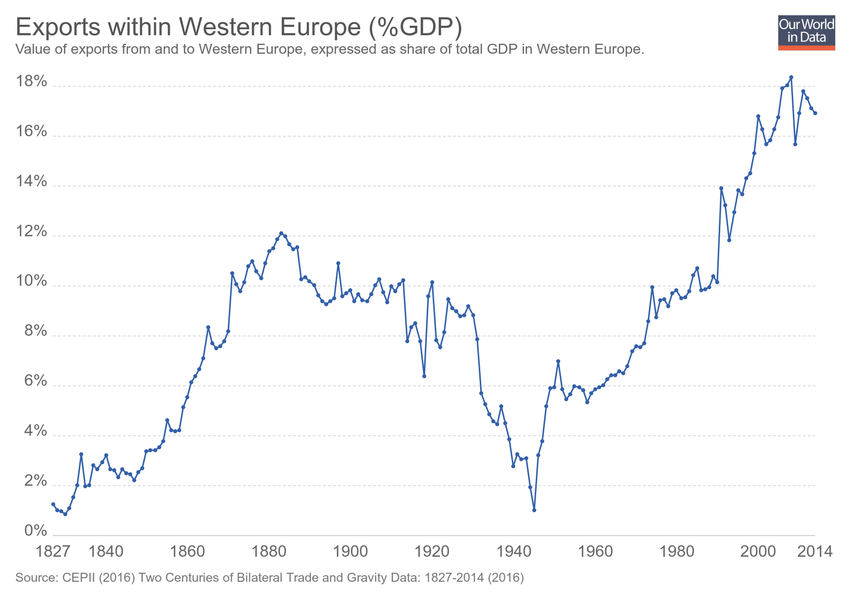
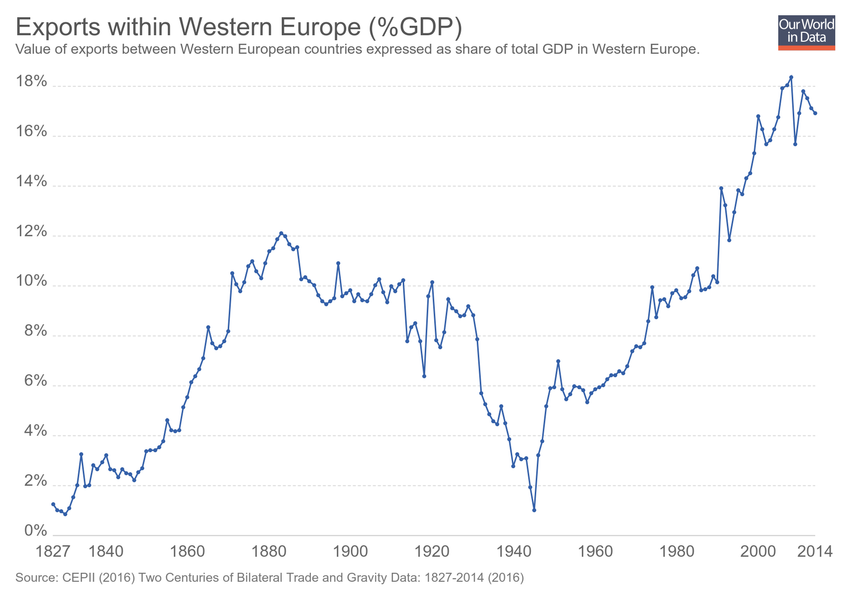
Updating chart exports-within-western-europe

Changed region(s): [[0.1529, 0.06, 0.8259, 0.09]]

diff --git a/grapher/exports-within-western-europe.html b/grapher/exports-within-western-europe.html
@@ -1,4 +1,4 @@
-<!doctype html><html><head><meta name="viewport" content="width=device-width, initial-scale=1" /><title>Exports within Western Europe (%GDP) - Our World in Data</title><meta name="description" content="Value of exports from and to Western Europe, expressed as share of total GDP in Western Europe." /><link rel="canonical" href="https://ourworldindata.org/grapher/exports-within-western-europe" /><meta property="fb:app_id" content="1149943818390250" /><meta property="og:url" content="https://ourworldindata.org/grapher/exports-within-western-europe" /><meta property="og:title" content="Exports within Western Europe (%GDP)" /><meta property="og:description" content="Value of exports from and to Western Europe, expressed as share of total GDP in Western Europe." /><meta property="og:image" content="https://ourworldindata.org/grapher/exports/exports-within-western-europe.png?v=1" /><meta property="og:image:width" content="850" /><meta property="og:image:height" content="600" /><meta property="og:site_name" content="Our World in Data" /><meta name="twitter:card" content="summary_large_image" /><meta name="twitter:site" content="@OurWorldInData" /><meta name="twitter:creator" content="@OurWorldInData" /><meta name="twitter:title" content="Exports within Western Europe (%GDP)" /><meta name="twitter:description" content="Value of exports from and to Western Europe, expressed as share of total GDP in Western Europe." /><meta name="twitter:image" content="https://ourworldindata.org/grapher/exports/exports-within-western-europe.png?v=1" /><style>
+<!doctype html><html><head><meta name="viewport" content="width=device-width, initial-scale=1" /><title>Exports within Western Europe (%GDP) - Our World in Data</title><meta name="description" content="Value of exports between Western European countries expressed as share of total GDP in Western Europe." /><link rel="canonical" href="https://ourworldindata.org/grapher/exports-within-western-europe" /><meta property="fb:app_id" content="1149943818390250" /><meta property="og:url" content="https://ourworldindata.org/grapher/exports-within-western-europe" /><meta property="og:title" content="Exports within Western Europe (%GDP)" /><meta property="og:description" content="Value of exports between Western European countries expressed as share of total GDP in Western Europe." /><meta property="og:image" content="https://ourworldindata.org/grapher/exports/exports-within-western-europe.png?v=3" /><meta property="og:image:width" content="850" /><meta property="og:image:height" content="600" /><meta property="og:site_name" content="Our World in Data" /><meta name="twitter:card" content="summary_large_image" /><meta name="twitter:site" content="@OurWorldInData" /><meta name="twitter:creator" content="@OurWorldInData" /><meta name="twitter:title" content="Exports within Western Europe (%GDP)" /><meta name="twitter:description" content="Value of exports between Western European countries expressed as share of total GDP in Western Europe." /><meta name="twitter:image" content="https://ourworldindata.org/grapher/exports/exports-within-western-europe.png?v=3" /><style>
         html, body {
             height: 100%;
             margin: 0;
@@ -20,8 +20,8 @@
         }
     </style><noscript><style>
                     figure { display: none !important; }
-                </style></noscript><link rel="stylesheet" href="https://ourworldindata.org/grapher/assets/commons.bundle.521782e703f0fe72f108.css" /><link rel="preload" href="/grapher/data/variables/96417.json?v=1" as="fetch" crossorigin /></head><body class="singleChart"><figure data-grapher-src="/grapher/exports-within-western-europe"></figure><noscript id="fallback"><img src="/grapher/exports/exports-within-western-europe.svg" /><p>Interactive visualization requires JavaScript</p></noscript><script src="https://cdn.polyfill.io/v2/polyfill.min.js?features=es6,fetch"></script><script src="https://ourworldindata.org/grapher/assets/commons.bundle.521782e703f0fe72f108.js"></script><script src="https://ourworldindata.org/grapher/assets/charts.bundle.521782e703f0fe72f108.js"></script><script>
-        var jsonConfig = {"map":{"projection":"World","colorSchemeLabels":[],"colorSchemeValues":[],"customNumericColors":[],"customCategoryColors":{},"customCategoryLabels":{},"customHiddenCategories":{}},"tab":"chart","slug":"exports-within-western-europe","type":"LineChart","title":"Exports within Western Europe (%GDP)","xAxis":{"scaleType":"linear"},"yAxis":{"min":0,"scaleType":"linear"},"version":1,"subtitle":"Value of exports from and to Western Europe, expressed as share of total GDP in Western Europe.","hasMapTab":false,"stackMode":"absolute","dimensions":[{"display":{},"property":"y","variableId":96417}],"hideLegend":true,"hasChartTab":true,"isPublished":true,"selectedData":[{"index":0,"entityId":476}],"addCountryMode":"disabled","hideTitleAnnotation":true,"id":3131};
+                </style></noscript><link rel="stylesheet" href="https://ourworldindata.org/grapher/assets/commons.bundle.521782e703f0fe72f108.css" /><link rel="preload" href="/grapher/data/variables/96417.json?v=3" as="fetch" crossorigin /></head><body class="singleChart"><figure data-grapher-src="/grapher/exports-within-western-europe"></figure><noscript id="fallback"><img src="/grapher/exports/exports-within-western-europe.svg" /><p>Interactive visualization requires JavaScript</p></noscript><script src="https://cdn.polyfill.io/v2/polyfill.min.js?features=es6,fetch"></script><script src="https://ourworldindata.org/grapher/assets/commons.bundle.521782e703f0fe72f108.js"></script><script src="https://ourworldindata.org/grapher/assets/charts.bundle.521782e703f0fe72f108.js"></script><script>
+        var jsonConfig = {"id":3131,"map":{"projection":"World","colorSchemeLabels":[],"colorSchemeValues":[],"customNumericColors":[],"customCategoryColors":{},"customCategoryLabels":{},"customHiddenCategories":{}},"tab":"chart","slug":"exports-within-western-europe","type":"LineChart","title":"Exports within Western Europe (%GDP)","xAxis":{"scaleType":"linear"},"yAxis":{"min":0,"scaleType":"linear"},"version":3,"subtitle":"Value of exports between Western European countries expressed as share of total GDP in Western Europe.","hasMapTab":false,"stackMode":"absolute","dimensions":[{"display":{},"property":"y","variableId":96417}],"hideLegend":true,"hasChartTab":true,"isPublished":true,"selectedData":[{"index":0,"entityId":476}],"addCountryMode":"disabled","hideTitleAnnotation":true};
         var figure = document.getElementsByTagName("figure")[0];
         try {
             window.App = {};
